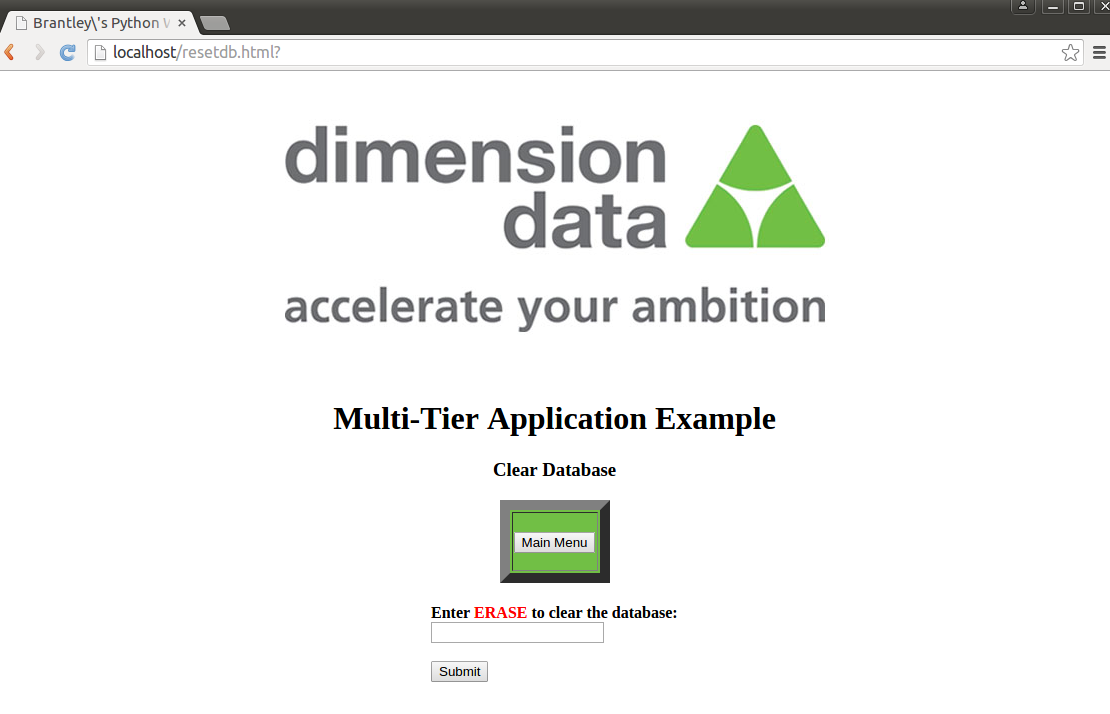
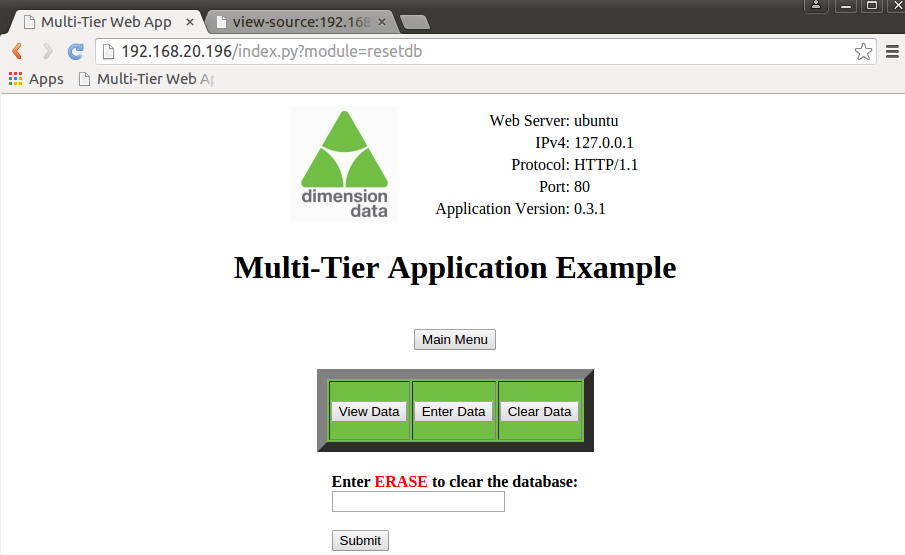
Updated Screenshots / Added App Version Header

diff --git a/html/base.html b/html/base.html
@@ -54,5 +54,6 @@
 <!-- Code that will print here will will be from the imported Python scripts -->
 
 <!-- EndCustom -->
+
 </body>
 </html>

diff --git a/scripts/server_info.py b/scripts/server_info.py
@@ -54,6 +54,7 @@ print '<tr><td align="right">Web Server:</td><td>%s<br></td></tr>'%hostname
 print '<tr><td align="right">IPv4:</td><td>%s<br></td></tr>' %ipaddress
 print '<tr><td align="right">Protocol: </td><td>%s</font><br></td></tr>'%serverprotocol
 print '<tr><td align="right">Port: </td><td>%s</font><br></td></tr>'%serverport
+print '<tr><td align="right">Application Version:</td><td>0.3.1</font><br></td></tr></font>'
 
 
 
